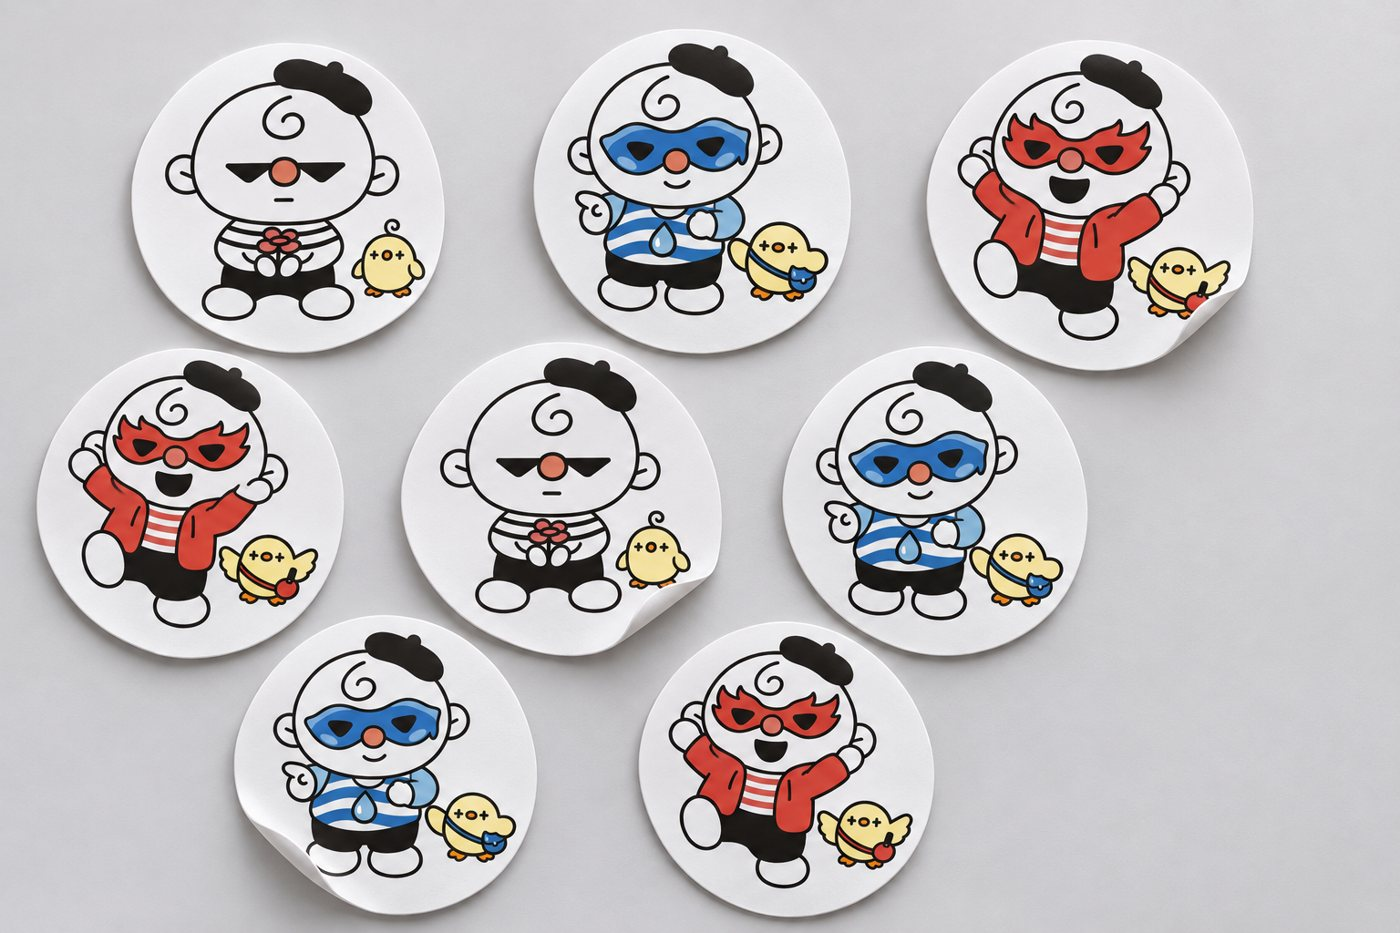
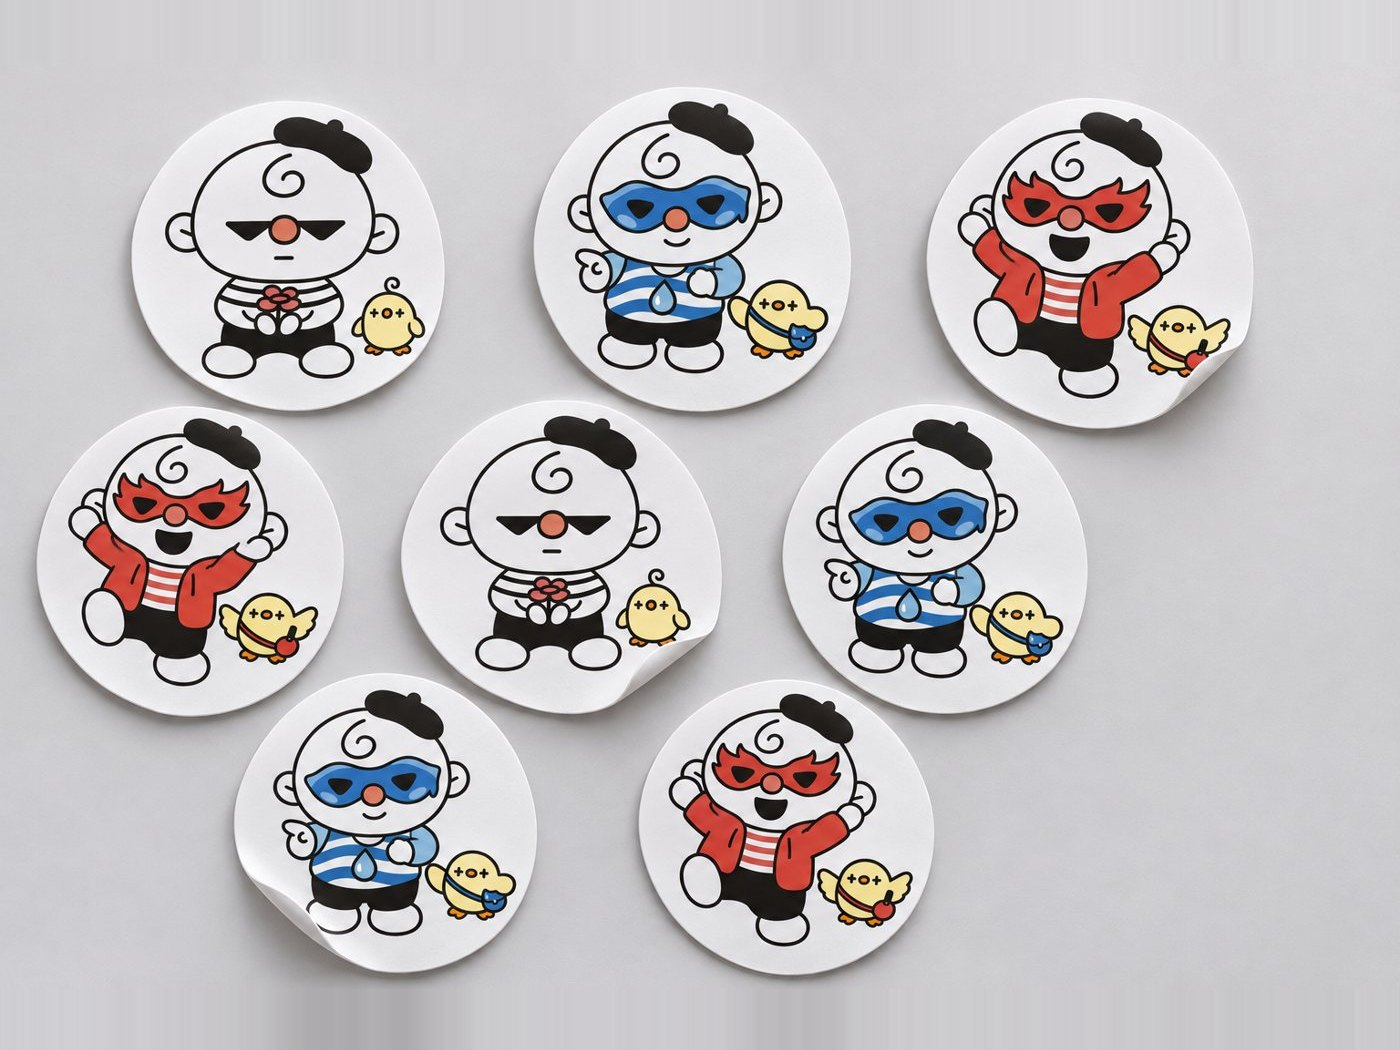
모바일 문항 제목이 테두리에 걸리는 문제 수정, 목업 비율 통일

Changed region(s): [[0.0307, 0.0311, 0.8907, 0.9946], [0.5836, 0.1243, 0.6143, 0.1865], [0.3071, 0.4662, 0.3379, 0.5284]]

diff --git a/src/px/PxQuestion.jsx b/src/px/PxQuestion.jsx
@@ -62,17 +62,19 @@ export default function PxQuestion({ question, number, value, onChange, error })
   }
 
   return (
-    <fieldset
+    <div
       id={`q-${question.id}`}
+      role="group"
+      aria-labelledby={`${question.id}-title`}
       className={`px-q survey-question ${error ? "has-error" : ""}`}
       aria-describedby={describedBy}
       data-track-section={`question-${question.id}`}
     >
-      <legend className="px-q-legend">
+      <div className="px-q-legend">
         <span className="px-q-number" aria-hidden="true">
           {String(number).padStart(2, "0")}
         </span>
-        <span className="px-q-title">
+        <span id={`${question.id}-title`} className="px-q-title">
           {question.title}
           {question.required && (
             <span className="px-star" aria-hidden="true">
@@ -80,7 +82,7 @@ export default function PxQuestion({ question, number, value, onChange, error })
             </span>
           )}
         </span>
-      </legend>
+      </div>
 
       <p id={requirementId} className="px-q-req">
         {question.required ? "필수" : "선택"}
@@ -156,6 +158,6 @@ export default function PxQuestion({ question, number, value, onChange, error })
           {error}
         </p>
       )}
-    </fieldset>
+    </div>
   );
 }

diff --git a/src/styles-px.css b/src/styles-px.css
@@ -1081,3 +1081,8 @@ html:has(.px-formpage) { scroll-behavior: auto; }
 /* 점수 칸은 왼쪽 끝에서 오른쪽 끝까지 */
 .px-formpage .px-scale { max-width: none; width: 100%; display: flex; justify-content: space-between; gap: 0; }
 .px-formpage .px-scale-labels { max-width: none; width: 100%; display: flex; justify-content: space-between; }
+
+/* 문항 제목: fieldset 대신 일반 블록. 모바일 사파리에서 테두리에 걸리던 문제 */
+.px-formpage .px-q-legend { float: none; display: block; width: 100%; margin: 0; padding: 0; }
+.px-formpage .px-q-legend + * { clear: none; }
+.px-formpage .px-mockup img { object-fit: cover; background: none; }
